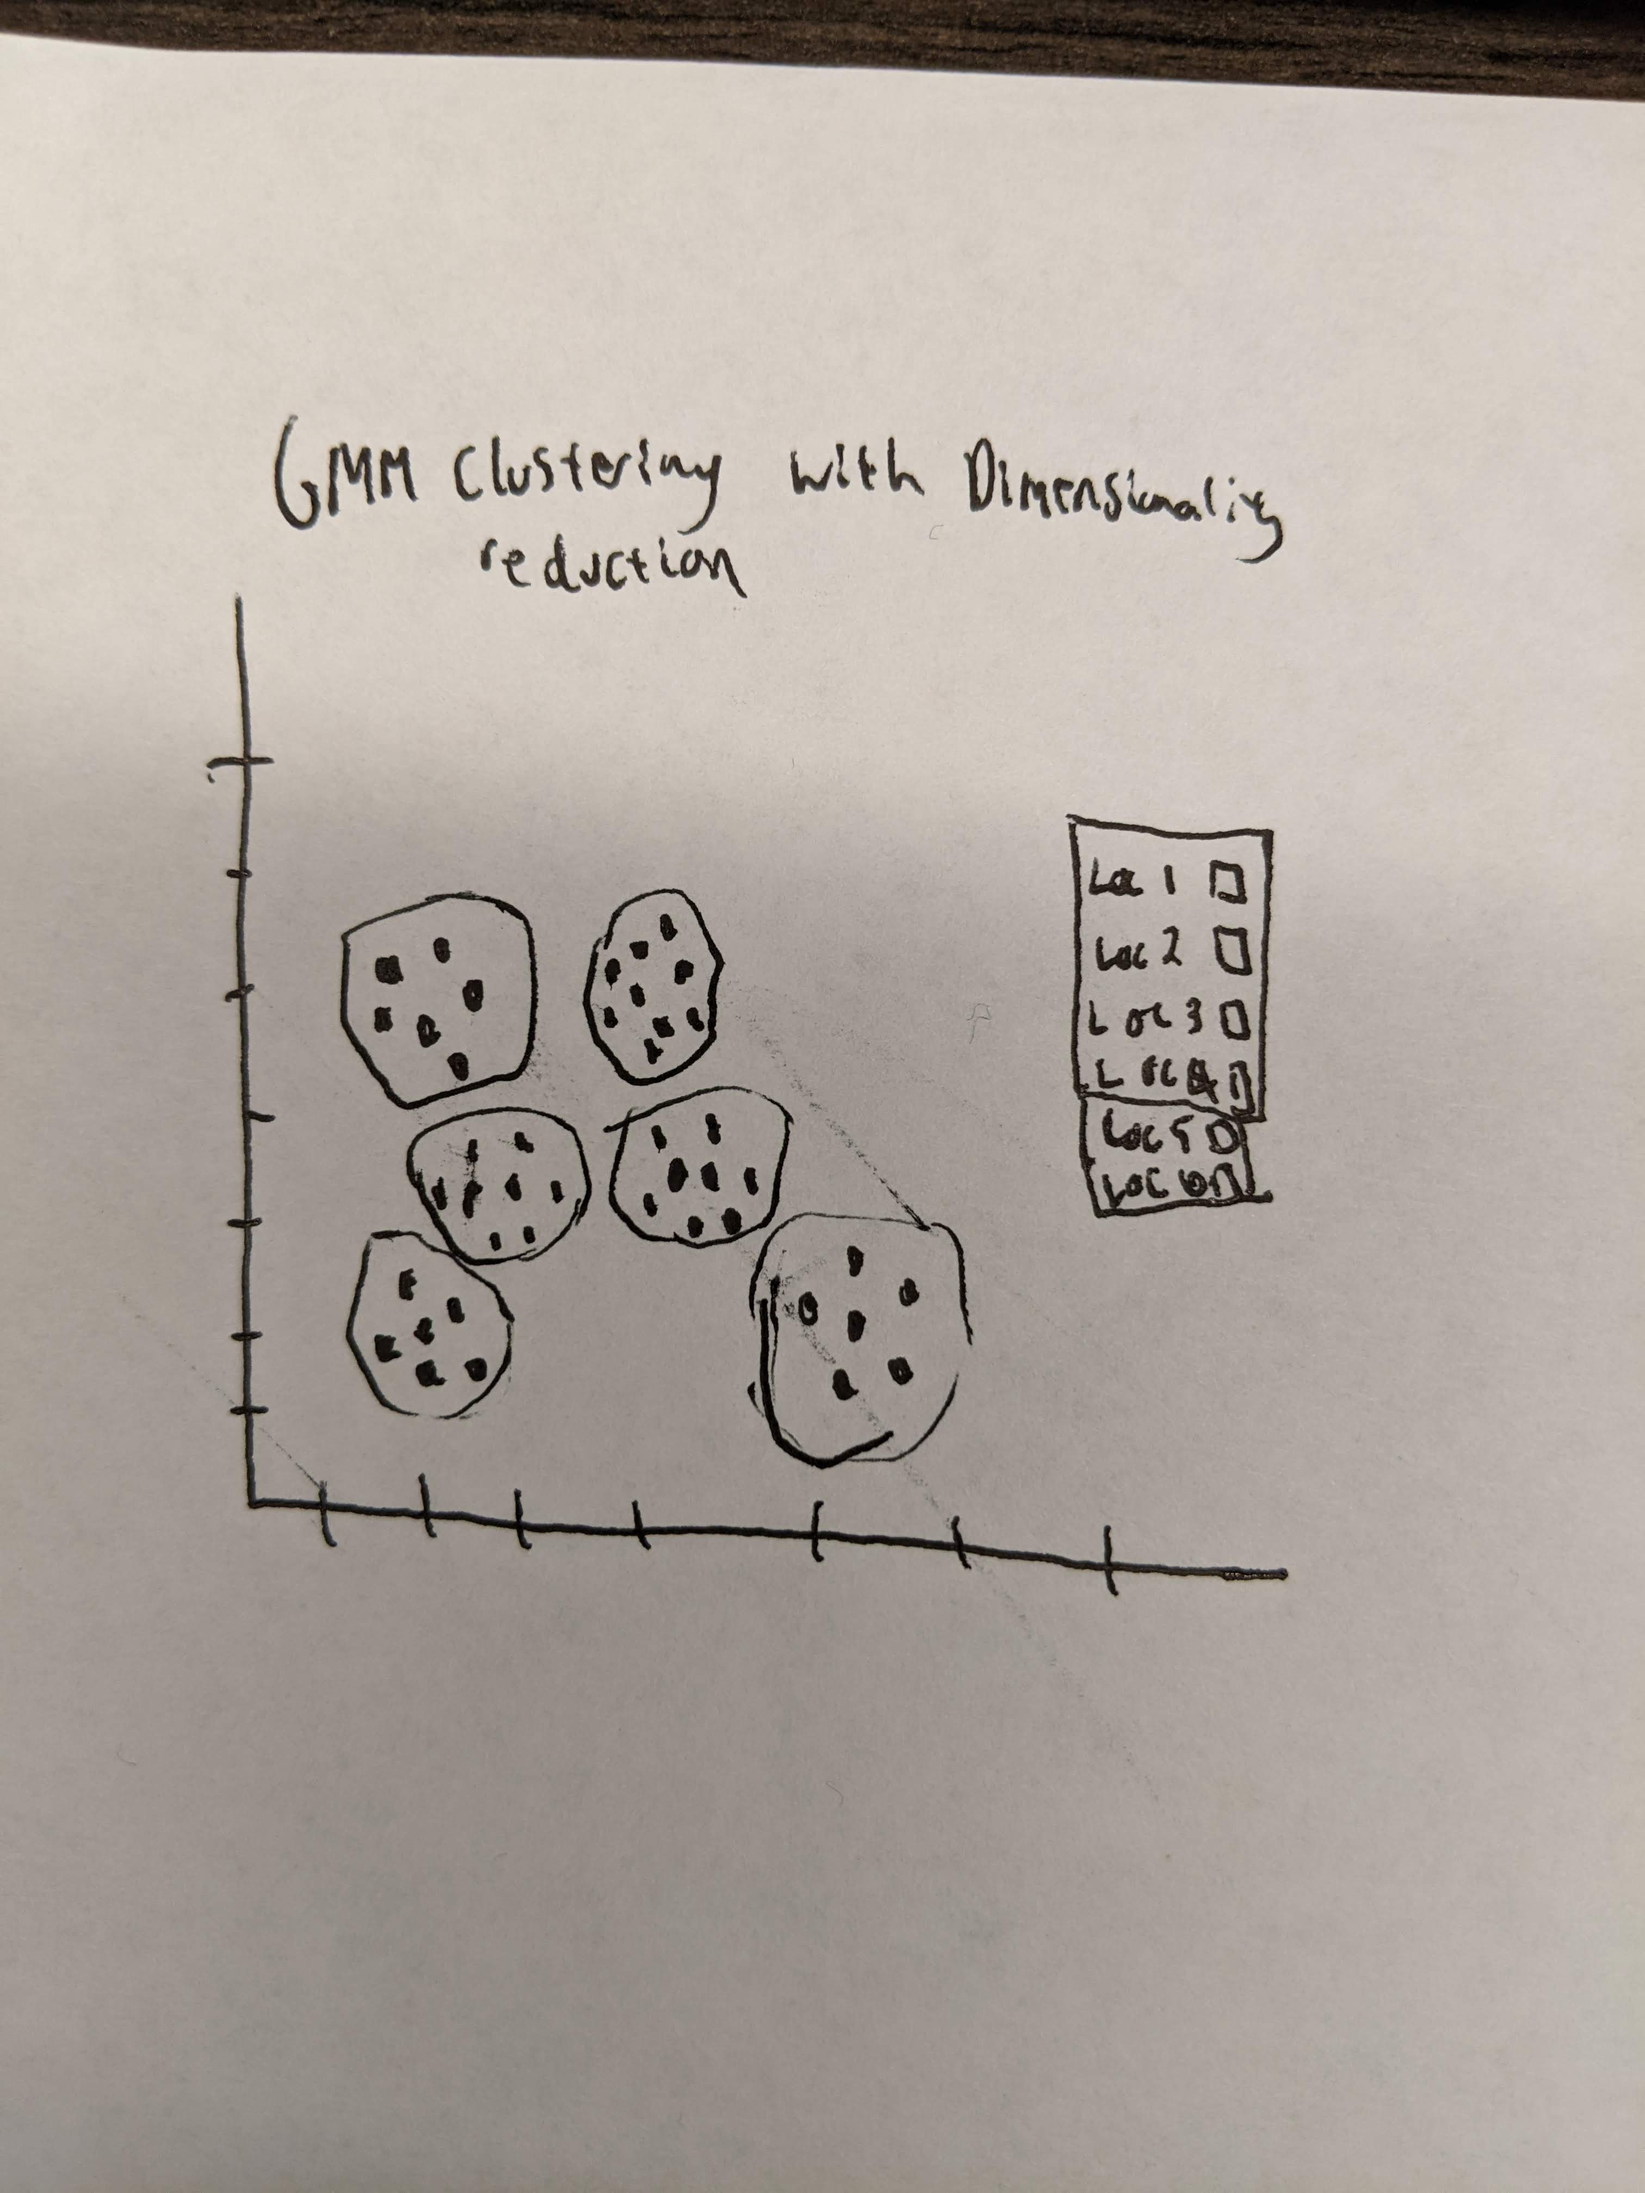
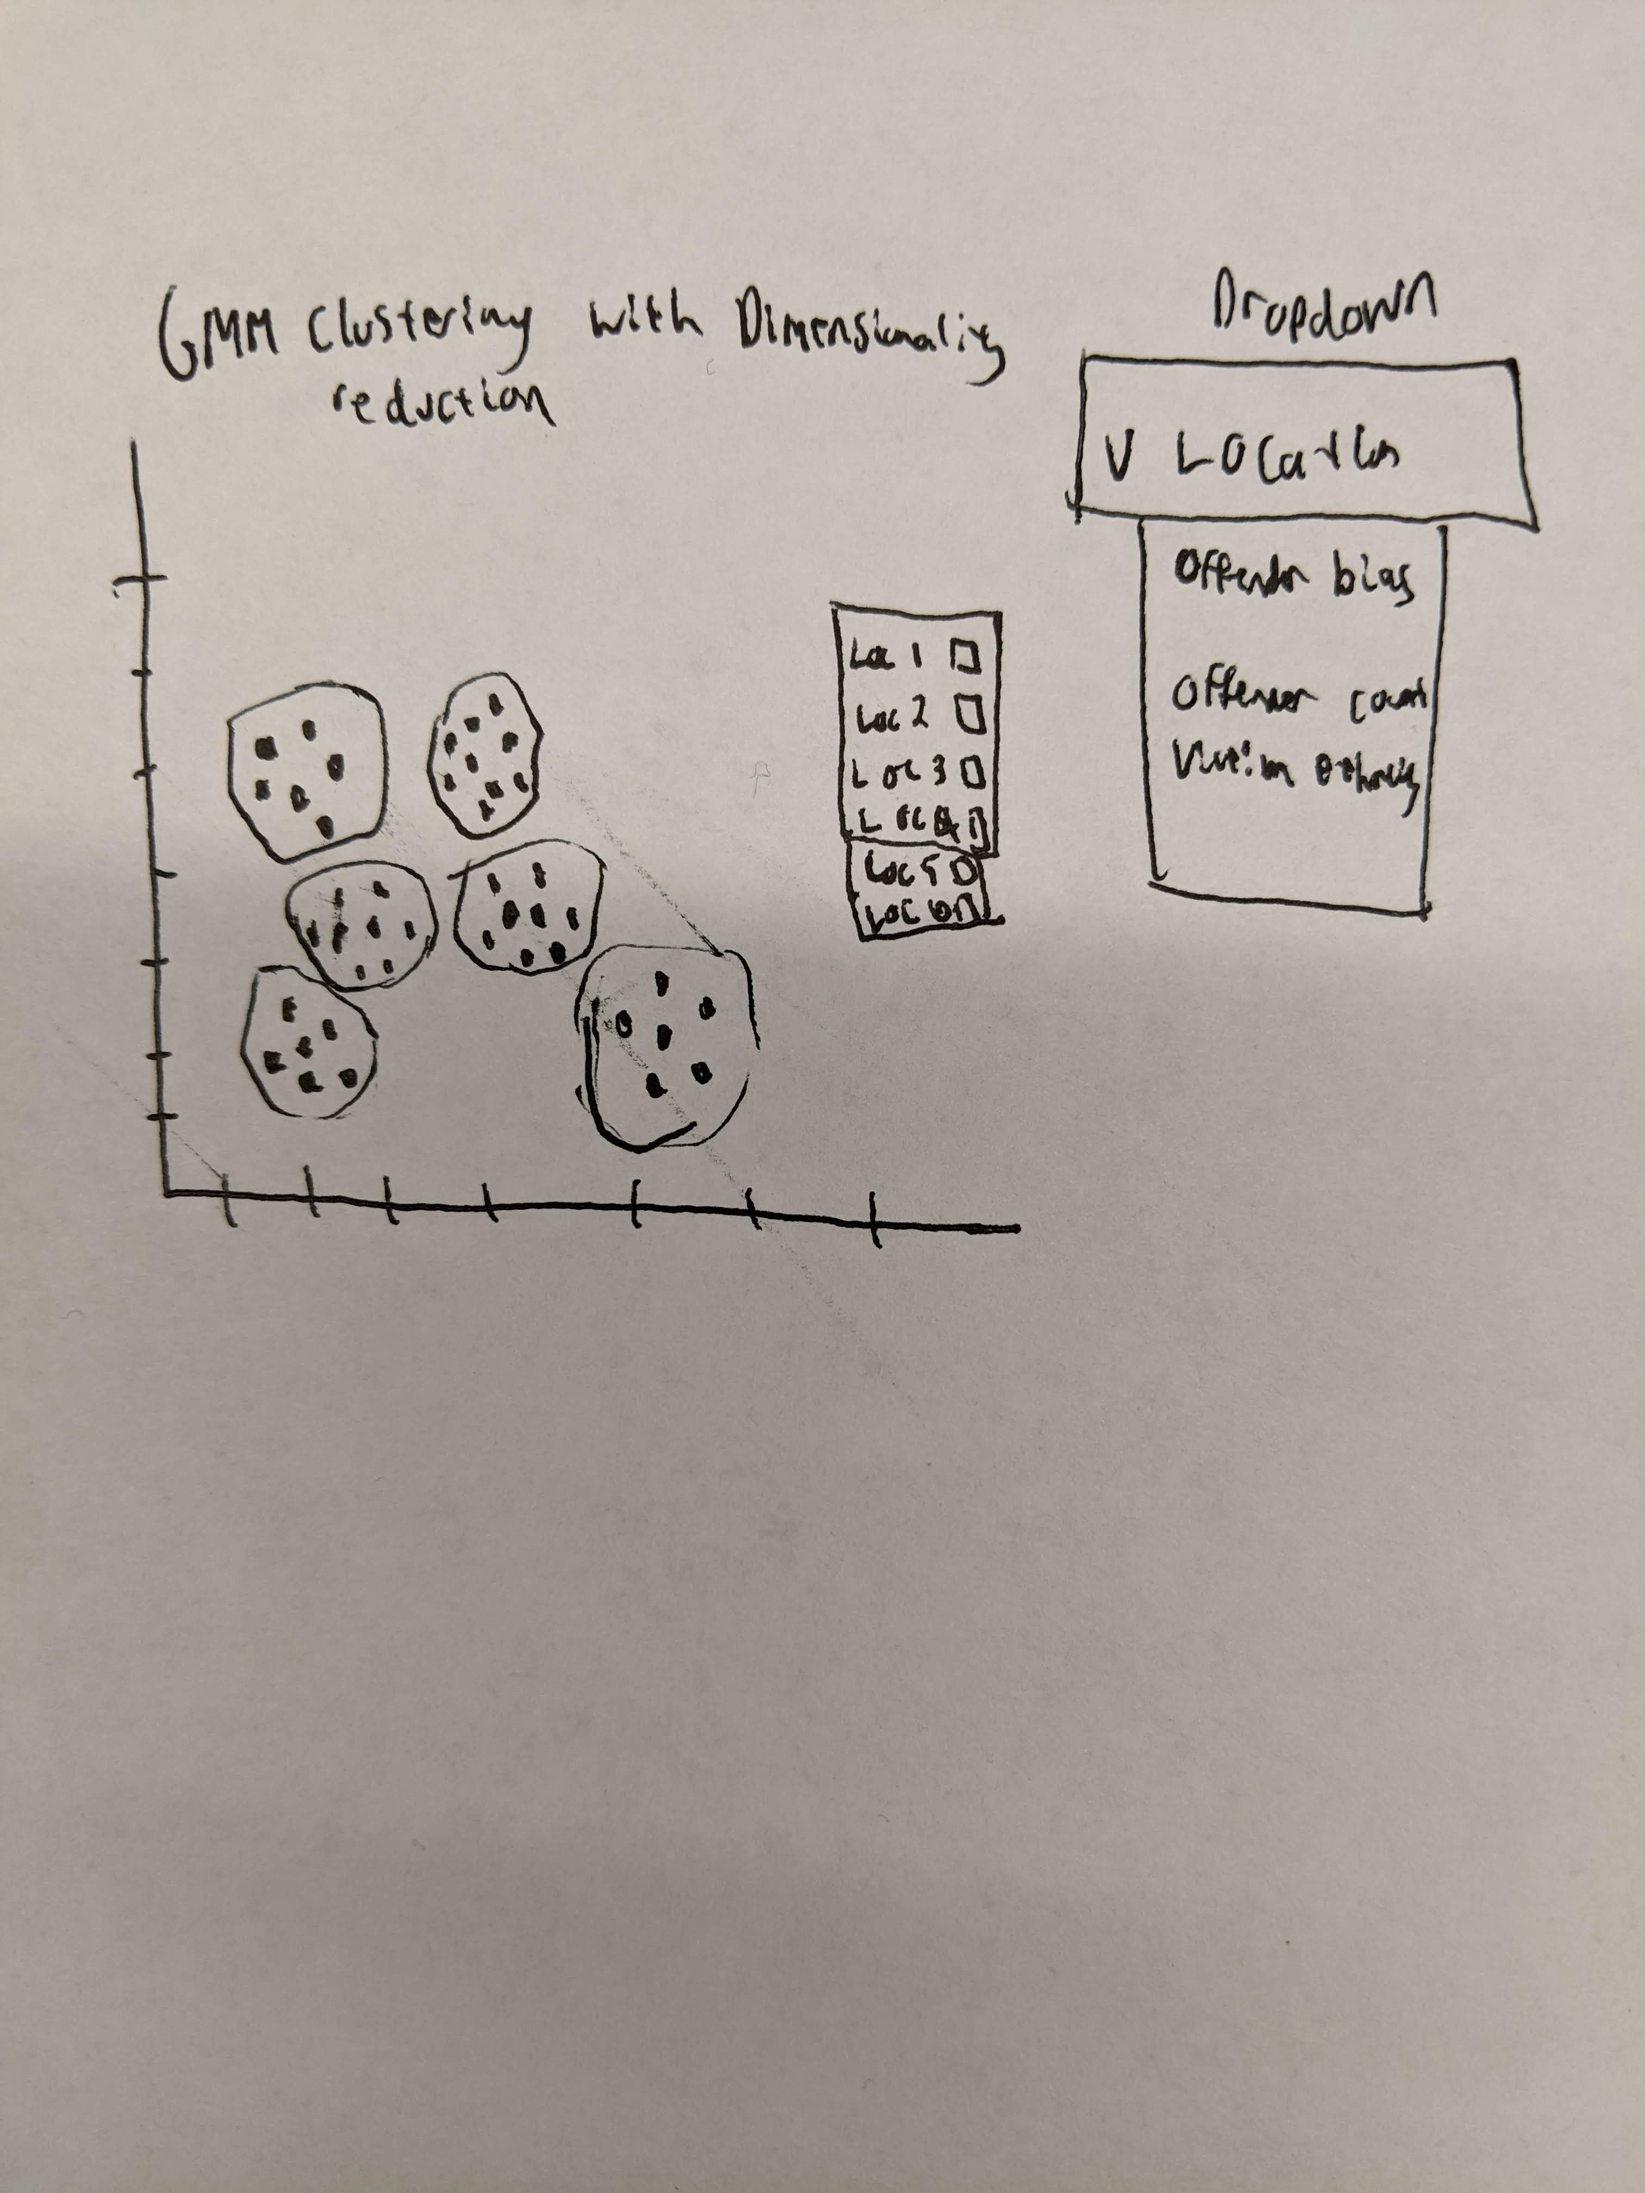
added interaction

diff --git a/Proposal.md b/Proposal.md
@@ -40,7 +40,7 @@ Upon further exploration of our dataset, we realized that many of the current ca
 
  Through these transformations, we expect that our features will be more expressive and we can further explore feature relationships in our visualizations. We also hope this will allow us to train predictive models on these categorical features. Our cleaned data for the FBI Hate Crimes dataset is shown below.
 
-<img src="https://github.com/CMU-IDS-2022/final-project-crime-scene/blob/main/images/transformed_dataframe.PNG" width="250" height="250">
+<img src="https://github.com/CMU-IDS-2022/final-project-crime-scene/blob/main/images/transformed_dataframe.PNG">
 
 From our exploration and data cleanup, we expect our data to be prepared to help address our data science problem. 
 
@@ -48,4 +48,6 @@ From our exploration and data cleanup, we expect our data to be prepared to help
   
 How will you display your data? What types of interactions will you support? 
 Provide some sketches that you have for the system design.
+
+One of the facets of the data science problem that we aimed to answer through our exploration and analysis was to determine which specific features were more influential in causing hate crimes. We aimed to look demographic information as well as circumstances surrounding who, where and how a crime was committted. Our purpose was to look for patterns or latent structures that can inform our understanding of hate crimes. Therefore, we intend to explore this through some dimensionality reduction and clustering techniques so that we can determine any informative features. Using GMM clustering grants us more flexibility regarding how patterns or clusters are formed and shaped as well being more relaxed in the how data points are assigned. We imagine our clustering to look similar to the sketch below with differing colors to indicate label assignments. To reduce the overall number of features needed to present this clustering, we also decided to use a drop down menu so that users can select the type of features they want to explore in relation to hate crime occurrences. 
 <img src="https://github.com/CMU-IDS-2022/final-project-crime-scene/blob/main/images/clustering_sketch.jpg" width="250" height="250">
